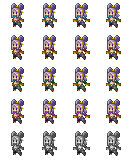
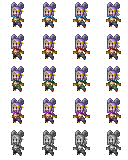
Fixed diviner female sprite

diff --git a/test.py b/test.py
@@ -6,8 +6,8 @@ import splitter, glob, os
 # (https://www.spriters-resource.com/3ds/fireemblemfates/)
 
 FILE_STRING = 'inputs/{}.png'
-UNIT_NAME = 'hayato'
-CLASS_NAME = 'diviner-m'
+UNIT_NAME = 'orochi'
+CLASS_NAME = 'diviner-f'
 
 splitter.main(
     FILE_STRING.format(UNIT_NAME),

diff --git a/splitter.py b/splitter.py
@@ -124,7 +124,7 @@ HEAD_PARAMS = {
         'size': 'large',
         },
     'diviner-f': {
-        'offset': [(0,0),(0,0),(0,0),(0,0),],
+        'offset': [(0,1),(0,1),(0,1),(0,1),],
         'size': 'large',
         },
     'diviner-m': {
